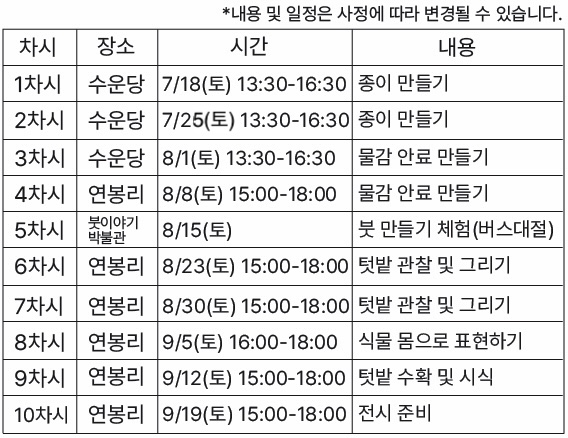
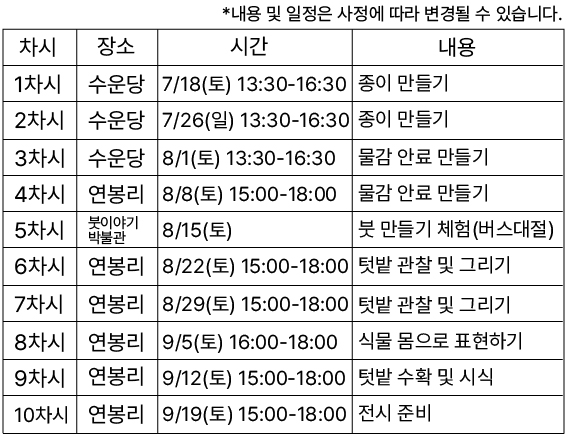
2nd participants call

diff --git a/pages/maeuling.html b/pages/maeuling.html
@@ -76,6 +76,13 @@
 	<img class="thumbnail" src="../img/cours_img/cours01_3.jpg" onclick="openModal(this.src)" alt="작은 이미지">
 	<img class="thumbnail" src="../img/cours_img/cours01_4.jpg" onclick="openModal(this.src)" alt="작은 이미지">
     </div>
+
+		<h4>물감 만들기 Making Colour Pigments </h4>   
+	<div class="gallery">
+    <img class="thumbnail" src="../img/cours_img/cours02_0.jpg" onclick="openModal(this.src)" alt="물감 만들기">
+	<img class="thumbnail" src="../img/cours_img/cours02_1.jpg" onclick="openModal(this.src)" alt="물감 만들기">
+	<img class="thumbnail" src="../img/cours_img/cours02_2.jpg" onclick="openModal(this.src)" alt="물감 만들기">
+	</div>
     <!-- 2. 모달(팝업) 레이아웃 -->
     <div id="myModal" class="modal" onclick="closeModal()">
         <span class="close" onclick="closeModal()">&times;</span>

diff --git a/pages/program.html b/pages/program.html
@@ -74,9 +74,8 @@
 		<p>기간 : 2026.7.18. ~ 2026.9.19. (10차시)
 		<br>요일 : 매주 토요일
 		<br>장소 : 1~3차시 수운당(서석면 안절골길 16), 4~10차시 연봉리(홍천읍 남산마을길3길 25)
-		<br>인원 : 12명 내외
 		<br>대상 : 누구나 가능
-		<br>참가비 : 무료(노쇼 방지 보증금 3만원 있음)
+		<br>참가비 : 무료
 		<br>문의 : o1o-9753-6619
 		<br>참가신청 : 구글 폼에서 신청
 		</div>
